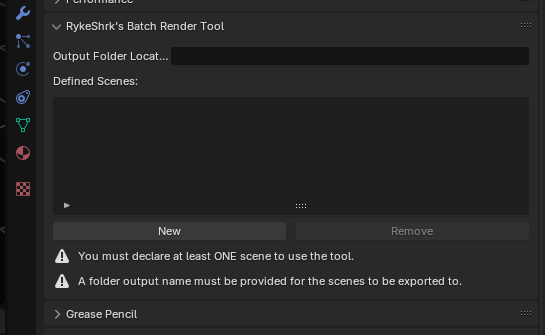
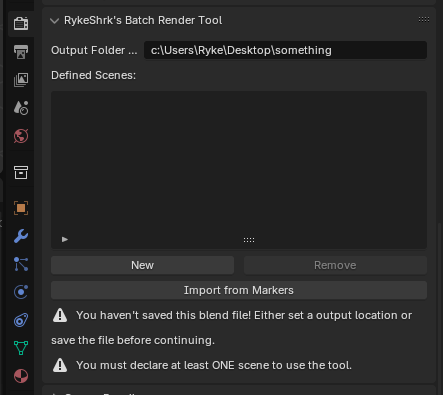
Revise readme, fix registering of classes

diff --git a/__init__.py b/__init__.py
@@ -303,7 +303,7 @@ class UIDemo(bpy.types.Panel):
 			layout.row().separator()
 			
 			layout.label(text="Tip: Press ESC on the render to cancel.", icon="INFO")
-		
+
 def register():
 	bpy.utils.register_class(RenderAllScenes)
 	bpy.utils.register_class(UIDemo)
@@ -338,3 +338,6 @@ def unregister():
 	
 	del bpy.types.Scene.ScenesDB
 	del bpy.types.Scene.ScenesDBlist_index
+
+if __name__ == "__main__":
+	register()

diff --git a/README.md b/README.md
@@ -1,7 +1,6 @@
 # RykeShrk's Batch Render tool
 
-A blender extension that allows you to render out specific sections of a singular scene onto different sections in their
-own folders.
+A blender extension that allows you to render out specific sections of a singular scene onto different folders.
 
 Mainly done given that this is my workflow for animations and it was getting annoying having to rename the output folder so many times and then screwing that up.
 
@@ -25,34 +24,29 @@ Once installed, you'll see the tool located on the Render section of the Propert
 
 ![Render Tool, in its initial state.](./docs/viewempty.png)
 
-The settings are as follows:
- 
-- Output Folder Location
-Sets the global folder location where every scene will be saved to. Think of it as the starting location. Every scene will
-be stored as folders inside that folder.
+### General Settings
 
-**Note:** This location is a relative path!
+#### Output Folder Location
+Sets the global folder location where every scene will be saved to. Think of it as the starting location. Every scene will be stored as folders inside that folder.
 
-- Defined scenes
+#### Defined scenes
 This is where you'll declare which scenes will be rendered out, their name and how long they will be.
-Use the New and Remove buttons to add a new scene and to delete one.
+Use the New and Remove buttons to add a new scene and to delete one. Or the "Import from Markers" option to generate them automatically based on the markers you've set on the timeline.
+
+### Managing a scene
 
 When selecting a scene, extra options will be shown below those buttons.
 
 ![Render Tool, with one item featuring inserted information.](./docs/viewoneitem.png)
 
-- Scene Name
+#### Scene Name
+What's the name of the scene? This will the the name of the folder it will output to.
 
-	What's the name of the scene? This will the the name of the folder it will output to.
+#### Render Scene?
+Tells the extension if it should render this scene on the batch.
 
-- Render Scene?
-
-	Tells the extension if it should render this scene on this batch.
-
-- Start/End frame
-
-	Define where the scene starts and ends.
+#### Start/End frame
+Define where the scene starts and ends.
 	
-- Scene Output Location
-
-	This is an automatic label that will display where the final location of this scene will be rendered out to. The format is `///[Output Folder Location]/[Scene Name]`.
+#### Scene Output Location
+This is an automatic label that will display where the final location of this scene will be rendered out to.
